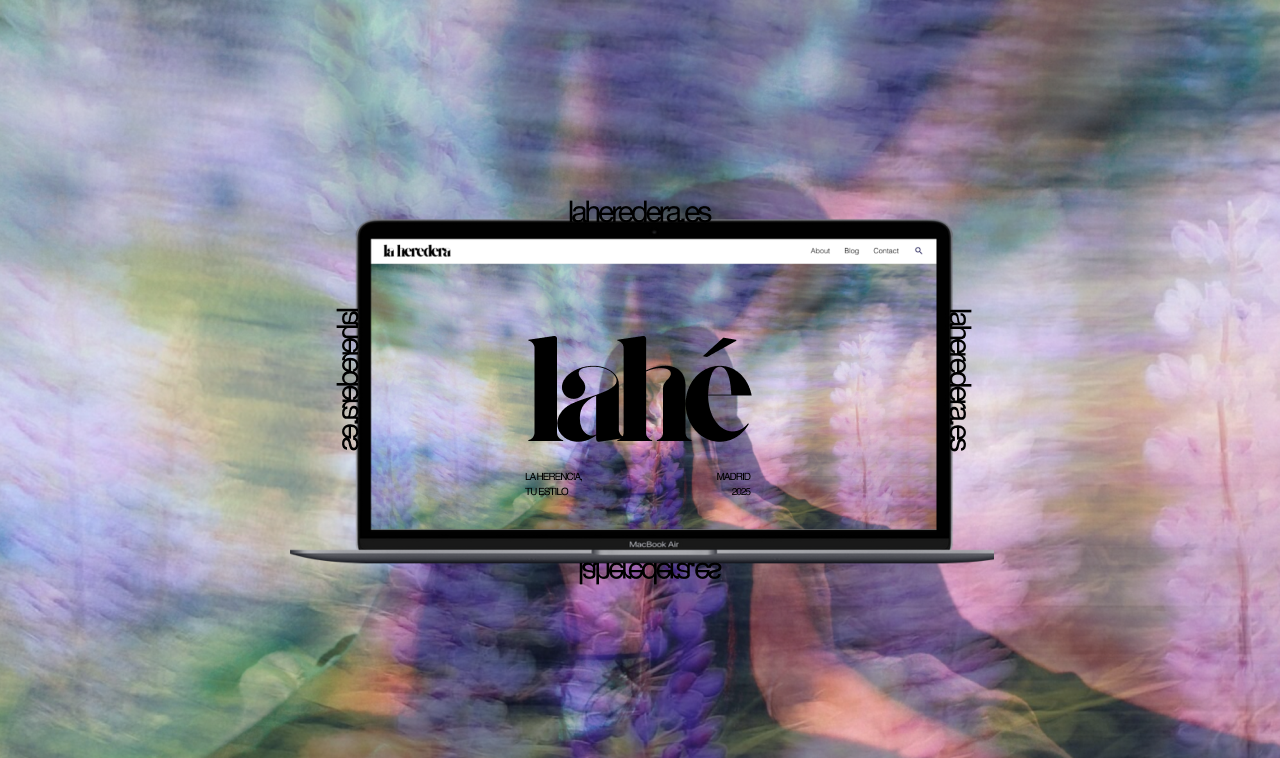
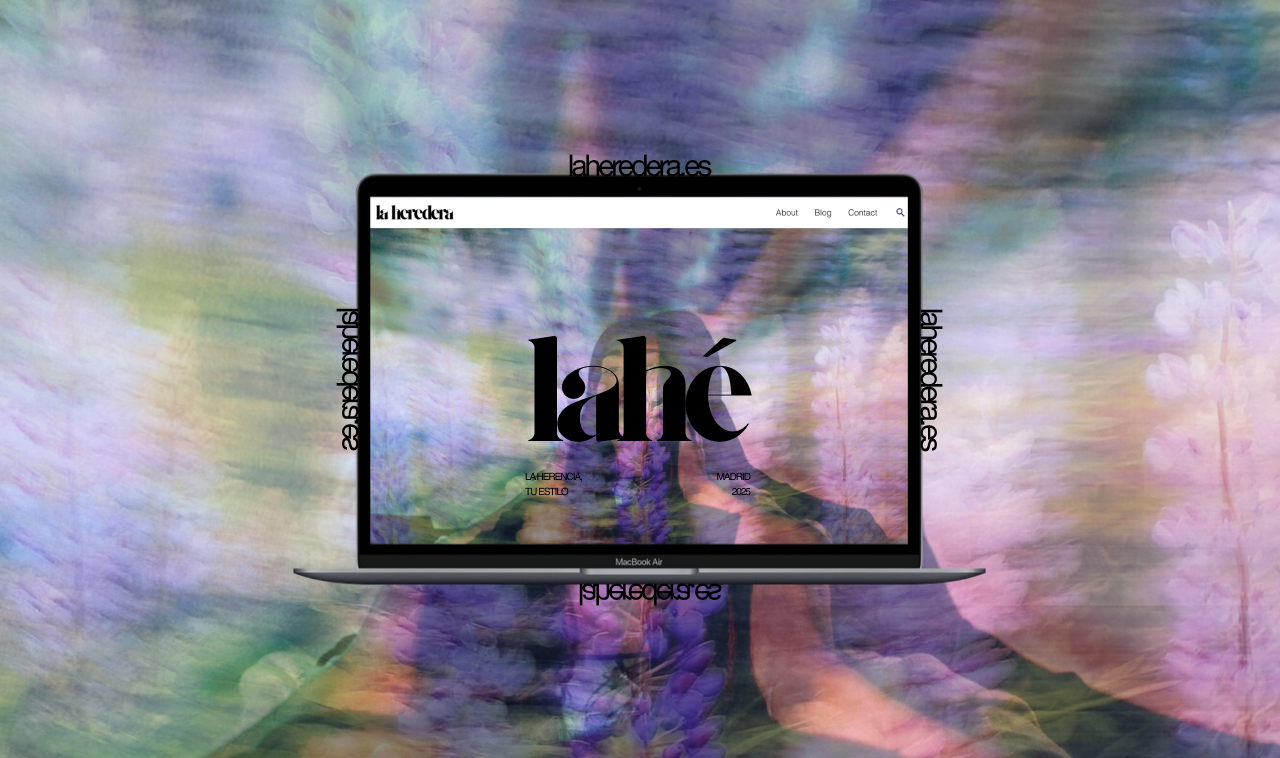
pertada

Changed region(s): [[0.2188, 0.2124, 0.7812, 0.7889]]

diff --git a/index.html b/index.html
@@ -147,7 +147,7 @@
     <script>
 /* imágenes portada */
         document.addEventListener("DOMContentLoaded", function() {
-             let imagenes = ["img/portadas/portada_deassin.png","img/portadas/portada_amayagarcia.png","img/portadas/presentacion_laheredera.png","img/portadas/velvet_inside.png","img/portadas/portada_becker.png","img/alvaro_gomis/WEB_PORTADA_alvaroGomis.png","img/portadas/ojo_vogue_ireneBecker.jpg"];
+             let imagenes = ["img/portadas/presentacion_laheredera.png","img/portadas/portada_deassin.png","img/portadas/portada_amayagarcia.png","img/portadas/velvet_inside.png","img/portadas/portada_becker.png","img/alvaro_gomis/WEB_PORTADA_alvaroGomis.png","img/portadas/ojo_vogue_ireneBecker.jpg"];
              let tiempoIntervalo = 5000; 
 
               let indiceImagenActual = 0;

diff --git a/work_btehr.html b/work_btehr.html
@@ -9,7 +9,7 @@
         <meta name="viewport" content="width=device-width, initial-scale=1.0">
         <meta name="viewport" content="width=device-width, user-scalable=no" /><!-- viewport  para el responsive-->
         <title>IRENE BECKER CREATIVE STUDIO | WORK BTEHR</title>
-        <link rel="icon" href="favicon.png" sizes="16x16 32x32" type="image/png"><!-- Favicon -->
+        <link rel="icon" type="image/x-icon" href="favicon.ico"><!-- Favicon -->
         <link rel="stylesheet" type="text/css" href="styles.css" media="screen" /><!-- CSS -->
         <link rel="stylesheet" type="text/css" href="styles_paginas.css" media="screen" /><!-- CSS / páginas work-->
         <link rel="stylesheet" type="text/css" href="styles_responsive.css" media="screen" /><!-- CSS RESPONSIVE -->
